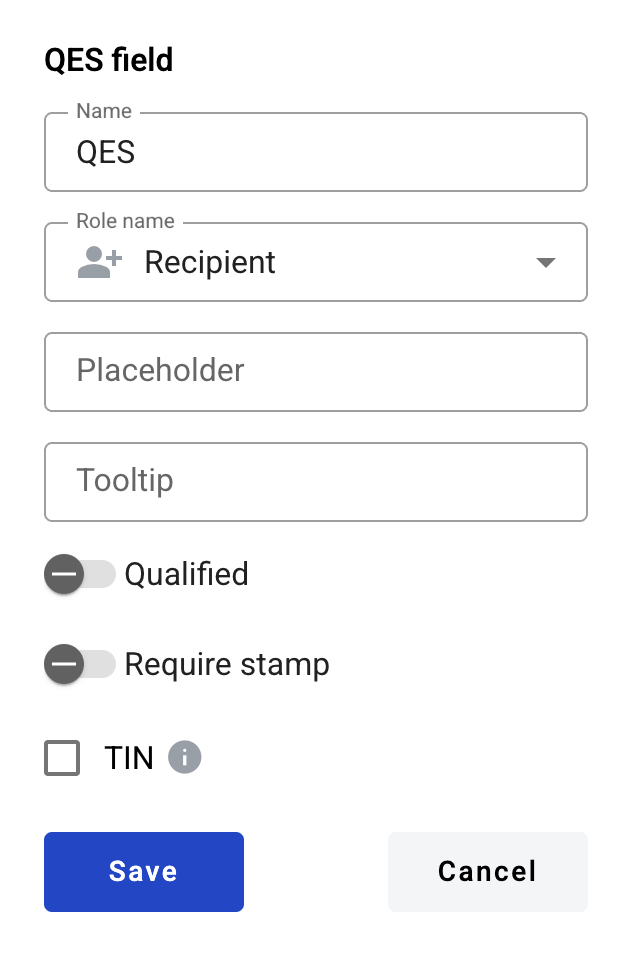
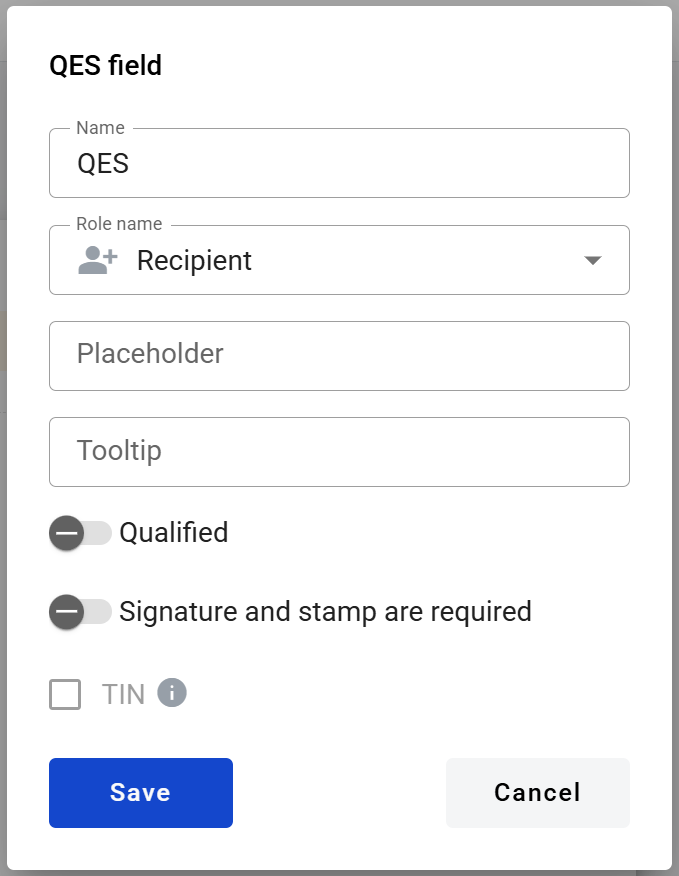
Vm/wd 5767 (#385)
* Field articles updates

* R150

* python downgrade

* fix

diff --git a/docs/source/pages/howToWorkWithPlatform/mainApplication/templateList/templateManagement/documentManagementOnTemplate/fields/qes/qes.rst b/docs/source/pages/howToWorkWithPlatform/mainApplication/templateList/templateManagement/documentManagementOnTemplate/fields/qes/qes.rst
@@ -25,7 +25,7 @@ How to add a QES field to the document?
 4. Role name - this is a role that will be assigned to fill this field
 5. Placeholder - this text will be shown inside the field before it is filled in (can be left empty; field`s name will be used instead)
 6. Qualified - this attribute specifies if signature will be qualified
-7. Required stamp - this attribute specifies if stamp will be required for signing
+7. Signature and stamp are required - this attribute specifies if both signature and stamp will be required for signing
 8. TIN (becomes editable if there are other fields in the template) - this attribute restricts signing process for everyone except a person with TIN code specified in field selected below
 9. Document (appears if TIN is enabled) - document where TIN field is placed
 10. TIN field (appears if TIN is enabled) - field which will be used for TIN check
@@ -42,10 +42,6 @@ When all attributes are set, you can click the "Save" button and the field will 
 
 Please note that the "Show advanced settings" option is available only while no additional attributes have been added to the field.
 Once at least one additional attribute is added — either during creation or later in edit mode — this option will no longer appear, and all available attributes will be displayed for editing instead.
-
-.. image:: pic_qes/qesEdit.png
-   :width: 600
-   :align: center
 
 **Content list**
 

diff --git a/docs/source/pages/howToWorkWithPlatform/mainApplication/templateList/templateManagement/documentManagementOnTemplate/fields/table/table.rst b/docs/source/pages/howToWorkWithPlatform/mainApplication/templateList/templateManagement/documentManagementOnTemplate/fields/table/table.rst
@@ -34,10 +34,6 @@ To view and edit table properties, right-click the table and select "Edit table"
    :width: 600
    :align: center
 
-.. image:: pic_table/tableEdit.png
-   :width: 600
-   :align: center
-
 Table columns can be renamed and resized, table content alignment options can be accessed from table column header menu. Other dynamic fields (except dynamic table itself) can be added inside the table cells.
 
 .. note:: If you want to hide certain columns of the table in its initial state you can click the according column, enable "Initially hidden" attribute in column properties and click "Save". Note that this is supported only for columns which have optional dynamic fields in them. Columns with static text, non-optional fields or empty cells can not be hidden. On the envelope view user will be able to show such columns from the menu on the right end of the table (only columns which have optional fields assigned for viewing user will be presented). If hidden column fields will not be filled during document processing these columns will be excluded from the final version of the document.

diff --git a/docs/source/pages/howToWorkWithPlatform/mainApplication/templateList/templateManagement/documentManagementOnTemplate/fields/dictionary/dictionary.rst b/docs/source/pages/howToWorkWithPlatform/mainApplication/templateList/templateManagement/documentManagementOnTemplate/fields/dictionary/dictionary.rst
@@ -57,8 +57,4 @@ When all attributes are set, you can click the "Save" button and the field will 
 Please note that the "Show advanced settings" option is available only while no additional attributes have been added to the field.
 Once at least one additional attribute is added — either during creation or later in edit mode — this option will no longer appear, and all available attributes will be displayed for editing instead.
 
-.. image:: pic_dictionary/dictionaryEdit.png
-   :width: 600
-   :align: center
-
 .. hint:: If this field contains a link in the envelope, it will be rendered a standard link in the browser (blue font with an underline). You can follow this link from the right-click context menu (any role) or directly click it (only if the field is inactive).

diff --git a/docs/source/pages/howToWorkWithPlatform/mainApplication/templateList/templateManagement/documentManagementOnTemplate/fields/dropdown/dropdown.rst b/docs/source/pages/howToWorkWithPlatform/mainApplication/templateList/templateManagement/documentManagementOnTemplate/fields/dropdown/dropdown.rst
@@ -44,8 +44,4 @@ When all attributes are set, you can click the "Save" button and the field will 
 Please note that the "Show advanced settings" option is available only while no additional attributes have been added to the field.
 Once at least one additional attribute is added — either during creation or later in edit mode — this option will no longer appear, and all available attributes will be displayed for editing instead.
 
-.. image:: pic_dropdown/dropdownEdit.png
-   :width: 600
-   :align: center
-
 .. hint:: If this field contains a link in the envelope, it will be rendered a standard link in the browser (blue font with an underline). You can follow this link from the right-click context menu (any role) or directly click it (only if the field is inactive).

diff --git a/docs/source/pages/howToWorkWithPlatform/mainApplication/templateList/templateManagement/documentManagementOnTemplate/fields/lookup/lookup.rst b/docs/source/pages/howToWorkWithPlatform/mainApplication/templateList/templateManagement/documentManagementOnTemplate/fields/lookup/lookup.rst
@@ -45,8 +45,4 @@ When all attributes are set, you can click the "Save" button and the field will 
 Please note that the "Show advanced settings" option is available only while no additional attributes have been added to the field.
 Once at least one additional attribute is added — either during creation or later in edit mode — this option will no longer appear, and all available attributes will be displayed for editing instead.
 
-.. image:: pic_lookup/lookupEdit.png
-   :width: 600
-   :align: center
-
 .. hint:: If this field contains a link in the envelope, it will be rendered a standard link in the browser (blue font with an underline). You can follow this link from the right-click context menu (any role) or directly click it (only if the field is inactive).

diff --git a/docs/source/pages/howToWorkWithPlatform/mainApplication/templateList/templateManagement/documentManagementOnTemplate/fields/text/text.rst b/docs/source/pages/howToWorkWithPlatform/mainApplication/templateList/templateManagement/documentManagementOnTemplate/fields/text/text.rst
@@ -59,8 +59,4 @@ When all attributes are set, you can click the "Save" button and the field will 
 Please note that the "Show advanced settings" option is available only while no additional attributes have been added to the field.
 Once at least one additional attribute is added — either during creation or later in edit mode — this option will no longer appear, and all available attributes will be displayed for editing instead.
 
-.. image:: pic_text/textEdit.png
-   :width: 600
-   :align: center
-
 .. hint:: If this field contains a link in the envelope, it will be rendered a standard link in the browser (blue font with an underline). You can follow this link from the right-click context menu (any role) or directly click it (only if the field is inactive).

diff --git a/docs/source/pages/howToWorkWithPlatform/mainApplication/templateList/templateManagement/documentManagementOnTemplate/fields/duplicate/duplicate.rst b/docs/source/pages/howToWorkWithPlatform/mainApplication/templateList/templateManagement/documentManagementOnTemplate/fields/duplicate/duplicate.rst
@@ -41,8 +41,4 @@ When all attributes are set, you can click the "Save" button and the field will 
 Please note that the "Show advanced settings" option is available only while no additional attributes have been added to the field.
 Once at least one additional attribute is added — either during creation or later in edit mode — this option will no longer appear, and all available attributes will be displayed for editing instead.
 
-.. image:: pic_duplicate/duplicateEdit.png
-   :width: 600
-   :align: center
-
 .. hint:: If this field contains a link in the envelope, it will be rendered a standard link in the browser (blue font with an underline). You can follow this link from the right-click context menu.

diff --git a/docs/source/pages/howToWorkWithPlatform/mainApplication/templateList/templateManagement/documentManagementOnTemplate/fields/initials/initials.rst b/docs/source/pages/howToWorkWithPlatform/mainApplication/templateList/templateManagement/documentManagementOnTemplate/fields/initials/initials.rst
@@ -38,10 +38,6 @@ When all attributes are set, you can click the "Save" button and the field will 
 Please note that the "Show advanced settings" option is available only while no additional attributes have been added to the field.
 Once at least one additional attribute is added — either during creation or later in edit mode — this option will no longer appear, and all available attributes will be displayed for editing instead.
 
-.. image:: pic_initials/initialsEdit.png
-   :width: 600
-   :align: center
-
 How to fill an initials field in the envelope?
 ==============================================
 

diff --git a/docs/source/pages/howToWorkWithPlatform/mainApplication/templateList/templateManagement/documentManagementOnTemplate/fields/signature/signature.rst b/docs/source/pages/howToWorkWithPlatform/mainApplication/templateList/templateManagement/documentManagementOnTemplate/fields/signature/signature.rst
@@ -39,10 +39,6 @@ When all attributes are set, you can click the "Save" button and the field will 
 Please note that the "Show advanced settings" option is available only while no additional attributes have been added to the field.
 Once at least one additional attribute is added — either during creation or later in edit mode — this option will no longer appear, and all available attributes will be displayed for editing instead.
 
-.. image:: pic_signature/signatureEdit.png
-   :width: 600
-   :align: center
-
 .. _simpleElectronicSignature:
 
 How to fill a signature field in the envelope?

diff --git a/docs/source/pages/howToWorkWithPlatform/mainApplication/templateList/templateManagement/documentManagementOnTemplate/fields/file/file.rst b/docs/source/pages/howToWorkWithPlatform/mainApplication/templateList/templateManagement/documentManagementOnTemplate/fields/file/file.rst
@@ -46,10 +46,6 @@ When all attributes are set, you can click the "Save" button and the field will 
 Please note that the "Show advanced settings" option is available only while no additional attributes have been added to the field.
 Once at least one additional attribute is added — either during creation or later in edit mode — this option will no longer appear, and all available attributes will be displayed for editing instead.
 
-.. image:: pic_file/fileEdit.png
-   :width: 600
-   :align: center
-
 How to fill a file field in the envelope?
 =========================================
 

diff --git a/docs/source/pages/howToWorkWithPlatform/mainApplication/templateList/templateManagement/documentManagementOnTemplate/fields/autonumber/autonumber.rst b/docs/source/pages/howToWorkWithPlatform/mainApplication/templateList/templateManagement/documentManagementOnTemplate/fields/autonumber/autonumber.rst
@@ -39,7 +39,3 @@ When all attributes are set, you can click the "Save" button and the field will 
 
 Please note that the "Show advanced settings" option is available only while no additional attributes have been added to the field.
 Once at least one additional attribute is added — either during creation or later in edit mode — this option will no longer appear, and all available attributes will be displayed for editing instead.
-
-.. image:: pic_autonumber/autonumberEdit.png
-   :width: 600
-   :align: center

diff --git a/docs/source/pages/howToWorkWithPlatform/mainApplication/templateList/templateManagement/documentManagementOnTemplate/fields/qrBarcode/qrBarcode.rst b/docs/source/pages/howToWorkWithPlatform/mainApplication/templateList/templateManagement/documentManagementOnTemplate/fields/qrBarcode/qrBarcode.rst
@@ -46,7 +46,3 @@ When all attributes are set, you can click the "Save" button and the field will 
 
 Please note that the "Show advanced settings" option is available only while no additional attributes have been added to the field.
 Once at least one additional attribute is added — either during creation or later in edit mode — this option will no longer appear, and all available attributes will be displayed for editing instead.
-
-.. image:: pic_qrBarcode/qrBarcodeEdit.png
-   :width: 600
-   :align: center
